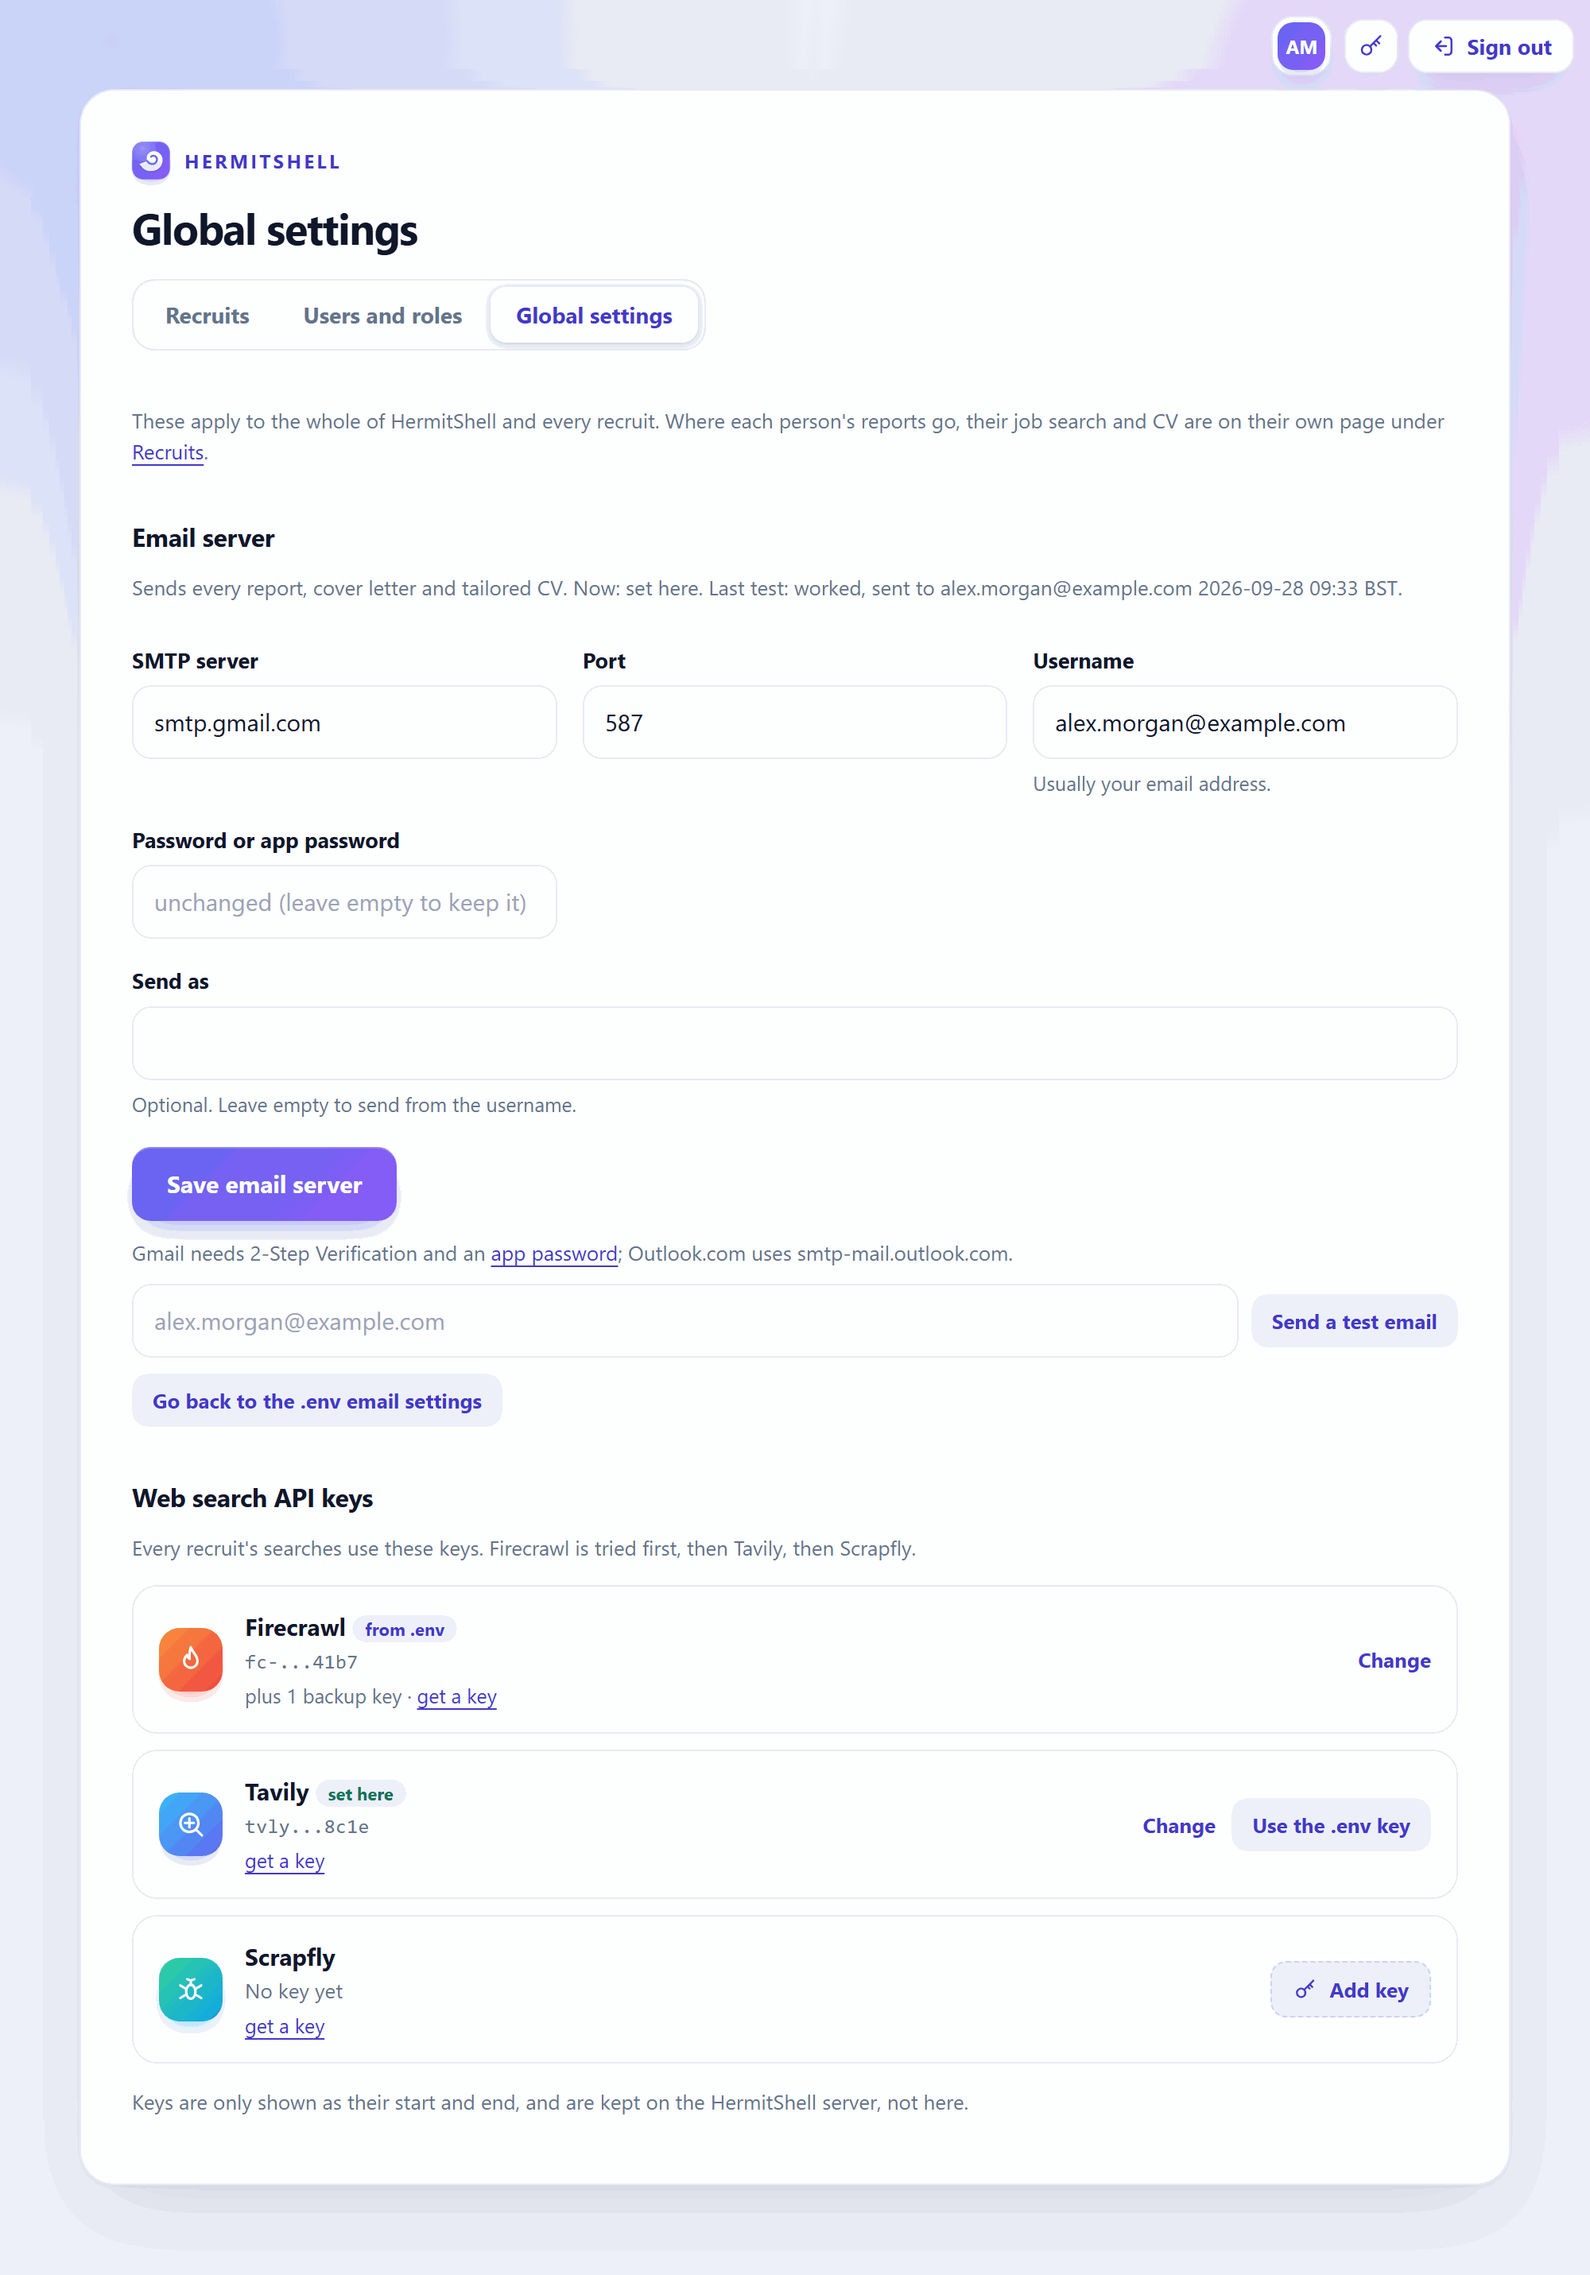
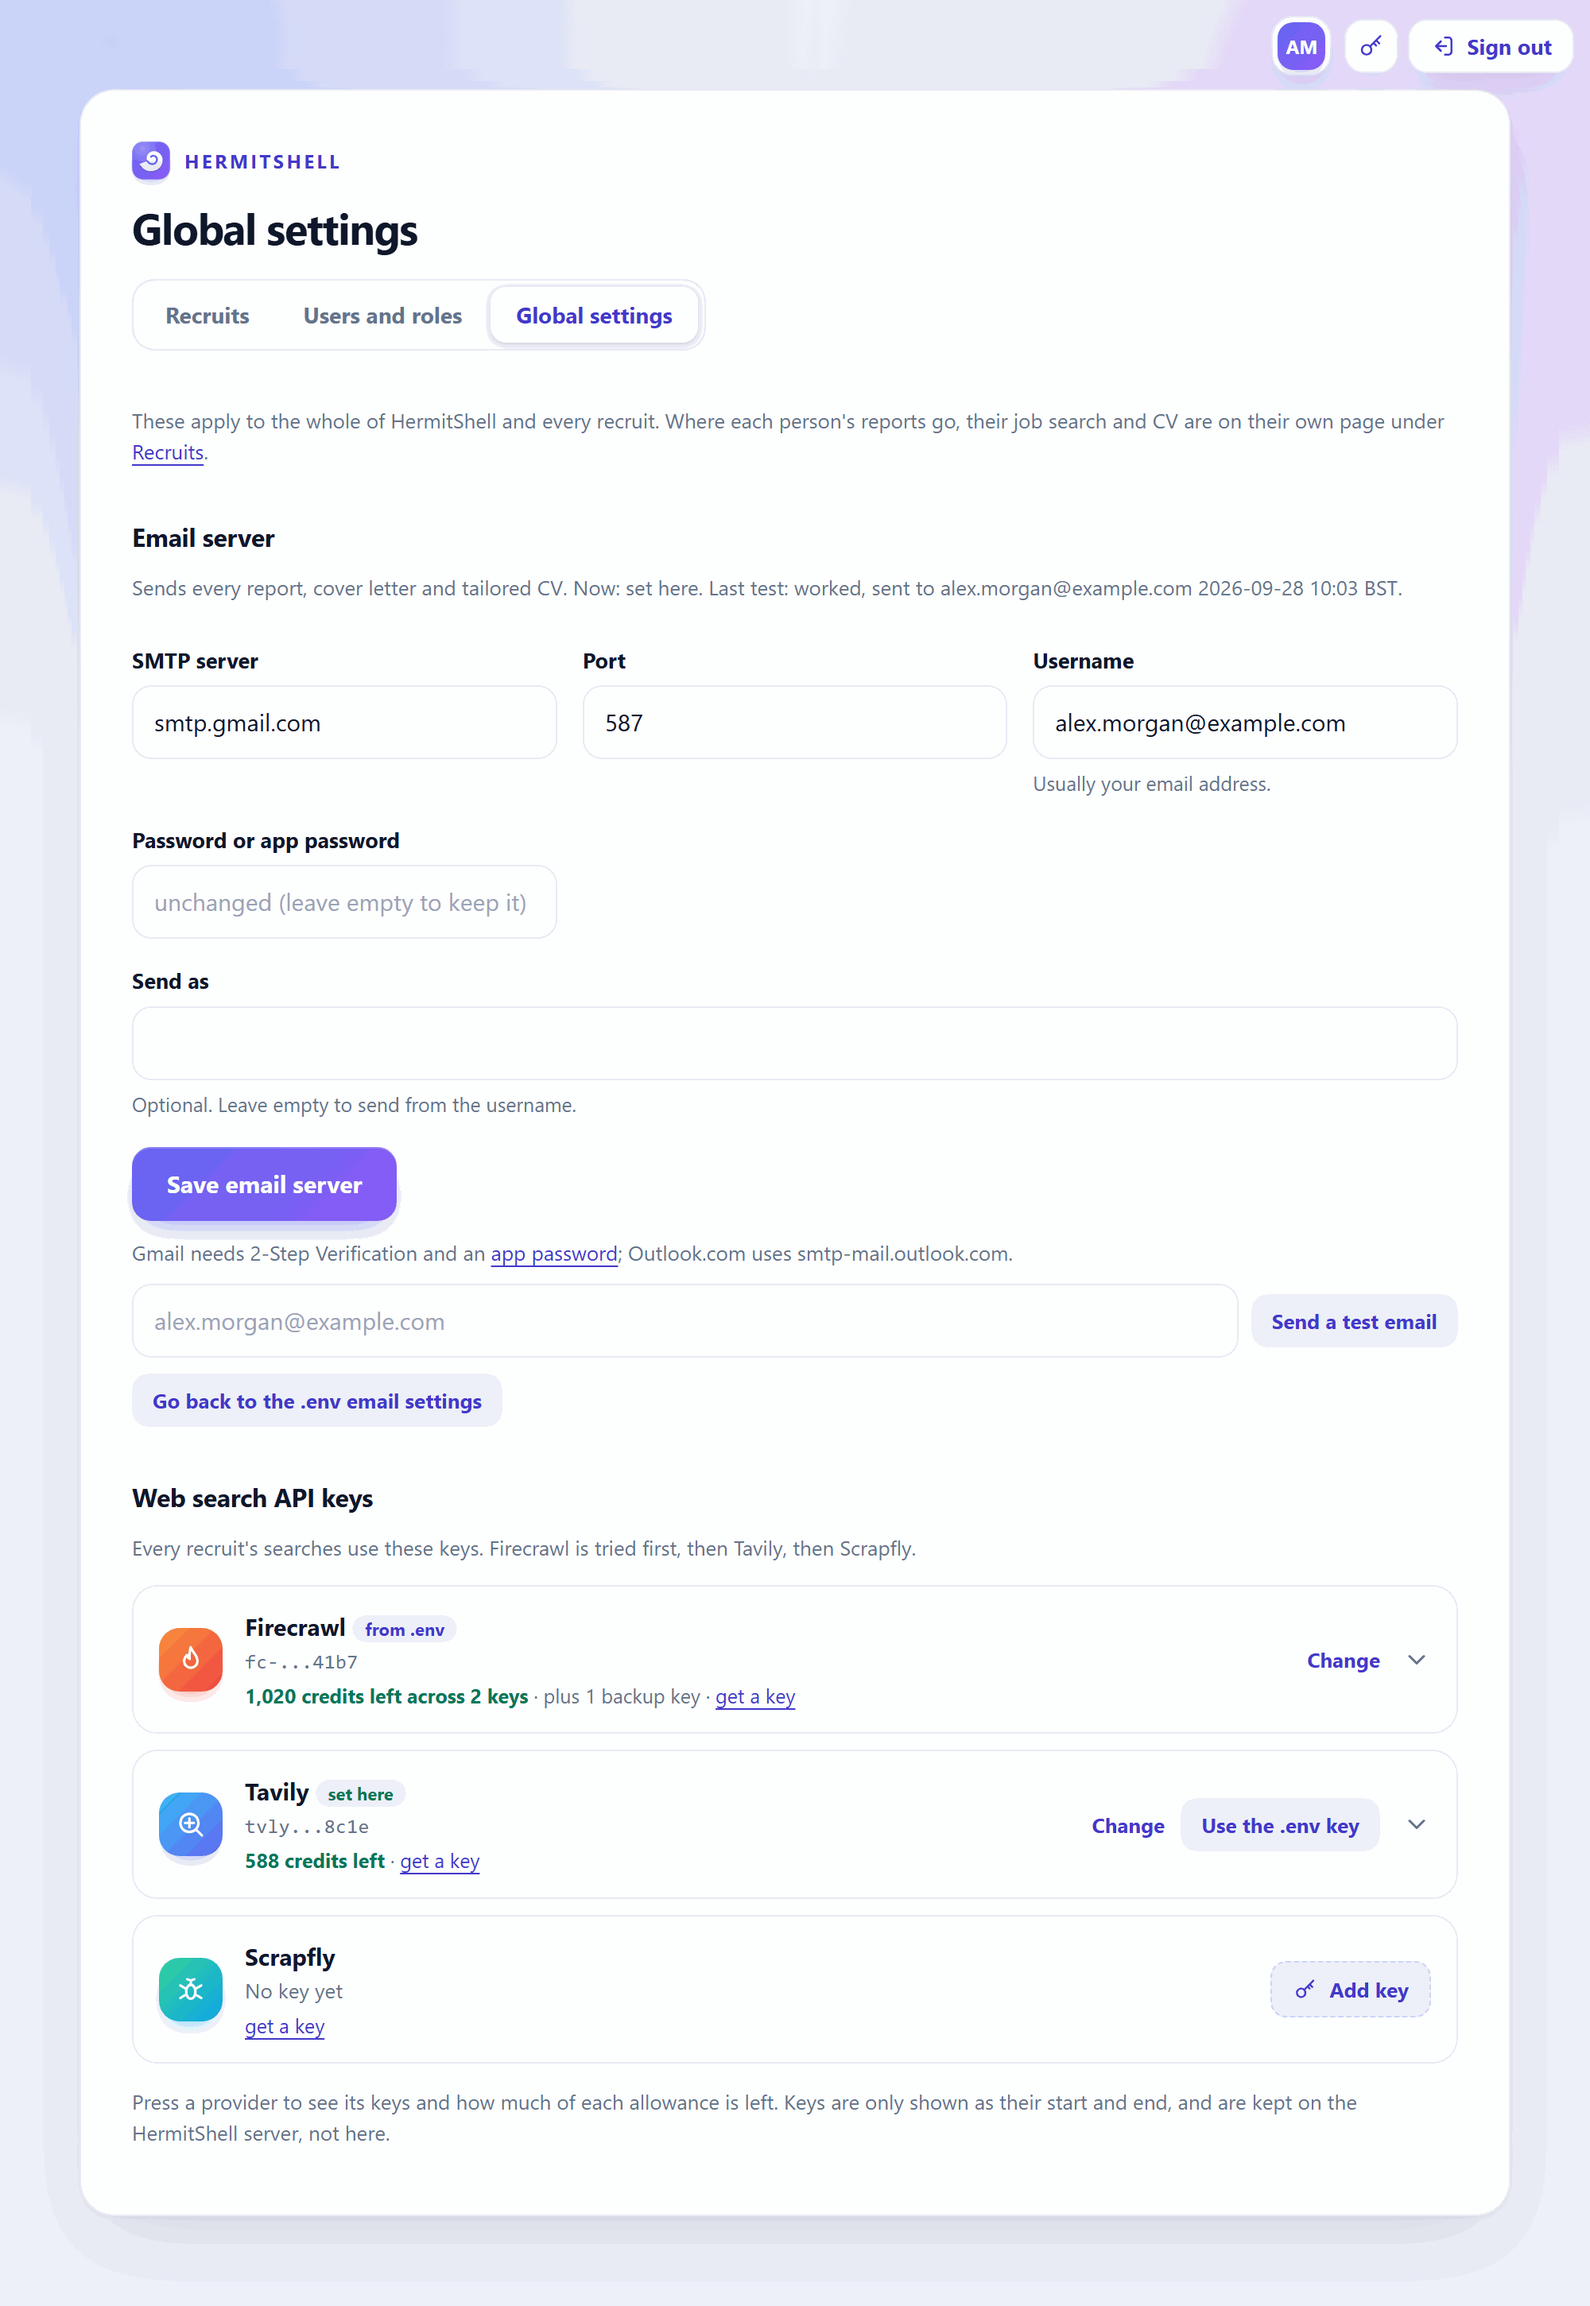
Document web search key usage with an up to date Global settings screenshot
feedback-worker.md, screenshots.md, configuration.md (WEB_KEY_USAGE_MINUTES)
and the package README cover the key cards; the changelog notes the feature and
its checks. Screenshot fixtures carry per key usage, and a new admin settings
screenshot shows the Firecrawl card open.

diff --git a/CHANGELOG.md b/CHANGELOG.md
@@ -17,6 +17,12 @@ using [Semantic Versioning](https://semver.org/).
   Frankfurter (no key), fetched once a day and cached (`money.py`, `JOB_FX_URL`, `off` to turn it off).
   Adverts can write `US$`, `C$`, `A$`, `NZ$` or an ISO code (`50,000 EUR`); a bare `$` is the profile's
   dollar, else the search country's. Old `£`, `€` and `$` settings keep working as `GBP`, `EUR` and `USD`.
+- **Web search key usage on Global settings.** Each provider with a key shows the credits left, and pressing
+  it opens its keys in the order they are tried (Firecrawl's main key, then its backups), masked, each with a
+  bar of what is left, the plan, when it resets and when it was checked, or why the check failed.
+  HermitShell asks Firecrawl's credit usage, Tavily's usage and Scrapfly's account endpoints (no search credits
+  spent) at most every `WEB_KEY_USAGE_MINUTES` (60; `0` turns it off) and caches the answers in
+  `state/key_usage.json` (`key_usage.py`).
 - **Add missing skills from the dashboard.** On the jobs sent list, each amber **Missing from the CV** skill
   of an opened job is now a button: an admin, or the recruiter whose pool it is, presses one the recruit has
   and it is stored as the email's **Add to my skills** answer, so HermitShell counts it as on the CV for
@@ -709,6 +715,10 @@ using [Semantic Versioning](https://semver.org/).
 
 A review of the whole app; none of these were known to be exploited.
 
+- Key usage checks go only to the three providers' HTTPS endpoints, without following redirects, with an
+  8-second timeout and replies capped at 64 KB. The cache and the dashboard get a masked hint and a hash of
+  each key, never the key, even when a check fails; the cache file is private (0600) and a tampered one is
+  ignored. Plan names, dates and counts are checked on the server and again in the Worker, and escaped.
 - Adding a skill from the dashboard (`POST /admin/skill`) needs a signed-in session and the form's CSRF
   token, answers "not found" for a recruit outside a recruiter's pool, and keeps only the skill cleaned to
   the characters the email's form allows (60 at most); skills in the stats are checked before they are

diff --git a/docs/screenshots.md b/docs/screenshots.md
@@ -419,9 +419,12 @@ Applied…) are never listed and can't be cancelled here.
 | Email server + **Save email server** | SMTP server, port, username, password and sender for everyone's emails. The password box stays empty; leave it empty to keep the saved password |
 | **Send a test email** | Sends a test to the address typed (default: yours); the result shows under Email server after HermitShell's next check |
 | **Go back to the .env email settings** | Shown when the email server was set here; undoes it |
-| Web search API keys | One row per provider (Firecrawl, Tavily, Scrapfly): **set here** or **from .env**, the start and end of the key, and Firecrawl's backup keys. These keys are used for every recruit |
+| Web search API keys | One row per provider (Firecrawl, Tavily, Scrapfly): **set here** or **from .env**, the start and end of the key, the credits left, and Firecrawl's backup keys. These keys are used for every recruit |
+| A provider, pressed | Opens its keys in the order they are tried: each one's start and end, a bar of the credits left (amber under 40%, red under 15%), the plan, when it resets and when HermitShell last checked, or why it couldn't. Pressed again, it closes |
 | **Add key** / **Change** | Opens a window to pick the provider and paste the key. Firecrawl takes several keys, comma separated |
 | **Use the .env key** | Shown next to a key set here; goes back to the one in `.env` |
+
+<img src="images/worker/admin-settings-key-usage.png" alt="Firecrawl opened on Global settings: the main key with 21% left and a backup key with 76% left" width="620">
 
 <img src="images/worker/admin-global-key-modal.png" alt="The Add key window: Firecrawl, Tavily or Scrapfly, and the API key" width="380">
 

diff --git a/docs/feedback-worker.md b/docs/feedback-worker.md
@@ -499,6 +499,17 @@ python3 profiles.py --assign sam-lee-456789 casey   # "" puts them in nobody's p
   (CSS only, no JavaScript) to pick the provider and paste the key; Firecrawl takes several keys,
   comma separated, used in turn. **Use the .env key** undoes a dashboard key. These keys are used for
   everyone: recruits no longer have keys of their own. [Where to get each key](api-keys.md).
+- **Key usage**: a provider with a key shows how many credits are left, and pressing it opens its
+  keys in the order they are tried (Firecrawl's main key, then its backups). Each key shows its start
+  and end, a bar of what is left (green, amber under 40%, red under 15%), the plan, when the allowance
+  resets and when it was checked, or why it couldn't be checked (a rejected key, for example).
+  HermitShell asks each provider's own account endpoint (Firecrawl's credit usage, Tavily's usage,
+  Scrapfly's account), which spends no search credits, at most every `WEB_KEY_USAGE_MINUTES`
+  (60; `0` turns it off), and a failed check again after 15 minutes. It keeps the answers in
+  `state/key_usage.json` under a hash of each key; the keys themselves never leave the server.
+  `python3 key_usage.py` prints the same on the server.
+
+<img src="images/worker/admin-settings-key-usage.png" alt="Global settings with Firecrawl opened: its main and backup keys, each with a bar of the credits left, its plan and when it resets" width="620">
 
 <img src="images/worker/admin-global-key-modal.png" alt="The Add key window on Global settings: Firecrawl, Tavily or Scrapfly" width="380">
 

diff --git a/packages/daily-vacancy-report/README.md b/packages/daily-vacancy-report/README.md
@@ -87,6 +87,7 @@ definitely ruled out; ratings that fail are retried on the next runs, up to 4 at
 | `letter_pdf.py` | Dependency-free A4 PDF writer for the letters |
 | `profiles.py` | Extra profiles: sign-ups from the Worker become profiles built from the CV, unsubscribes, admin changes, each profile's report job, Send jobs now; entry point for the 5-minute job |
 | `profile_report.py` | One extra profile's daily report: the script of its `vacancy-report-<id>` job |
+| `key_usage.py` | The credits left on each web search key, from each provider's account endpoint, for the dashboard's Global settings (`python3 key_usage.py` prints them) |
 | `profile_stats.py` | A profile's daily counts, top lists and recent jobs sent from its tracker, for the dashboard's stats and jobs sent pages |
 | `maintenance.py` | Nightly retention, encryption of older files, file permissions and encrypted backups; `--restore`, `--decrypt`, `--new-key` ([data protection](../../docs/configuration.md#data-protection)) |
 | `cv_text.py` | Dependency-free text extraction from PDF, Word .docx and text CVs |

diff --git a/docs/configuration.md b/docs/configuration.md
@@ -94,6 +94,7 @@ Full template: [`.env.example`](../.env.example).
 | `WEB_SEARCH_ORDER` | `firecrawl,tavily` | Search provider priority |
 | `WEB_SCRAPE_ORDER` | `firecrawl,scrapfly,tavily` | Scrape provider priority |
 | `SCRAPFLY_COUNTRY` | none | Scrapfly proxy country (two-letter code) for geo-blocked sites |
+| `WEB_KEY_USAGE_MINUTES` | `60` | How often the dashboard's Global settings checks the credits left on each key, with the provider's free account endpoint (no search credits spent); `0` turns it off |
 | `OLLAMA_HOST` / `OLLAMA_FALLBACK_HOST` / `OLLAMA_MODEL` | see above | The Ollama server and model |
 | `OLLAMA_NUM_CTX` | autofit | Context size (tokens) for `OLLAMA_MODEL` |
 | `HERMES_MODEL_CONCURRENCY` | `auto` | Model requests allowed at once across all scripts and profiles; the rest queue. `auto` = one per working Ollama instance |
